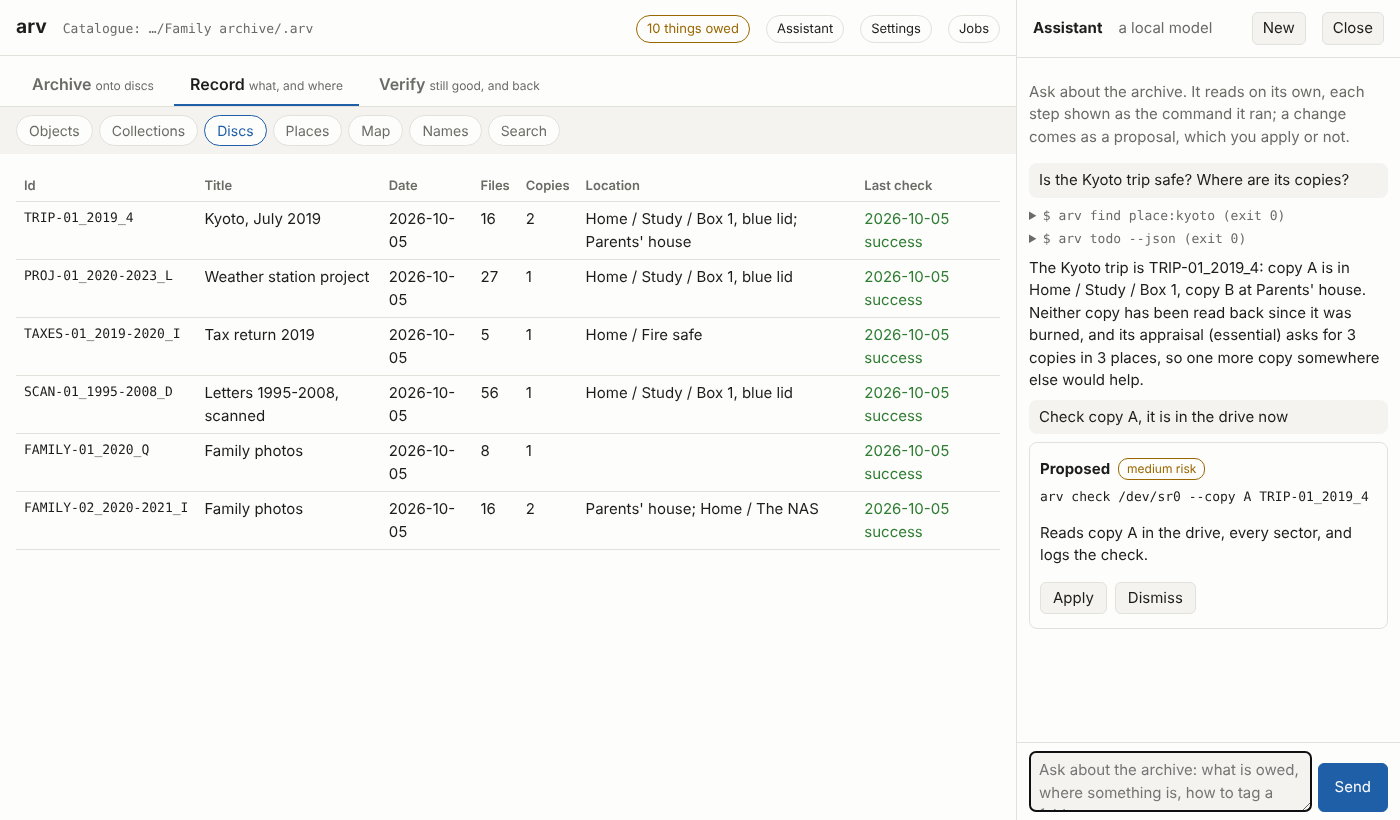
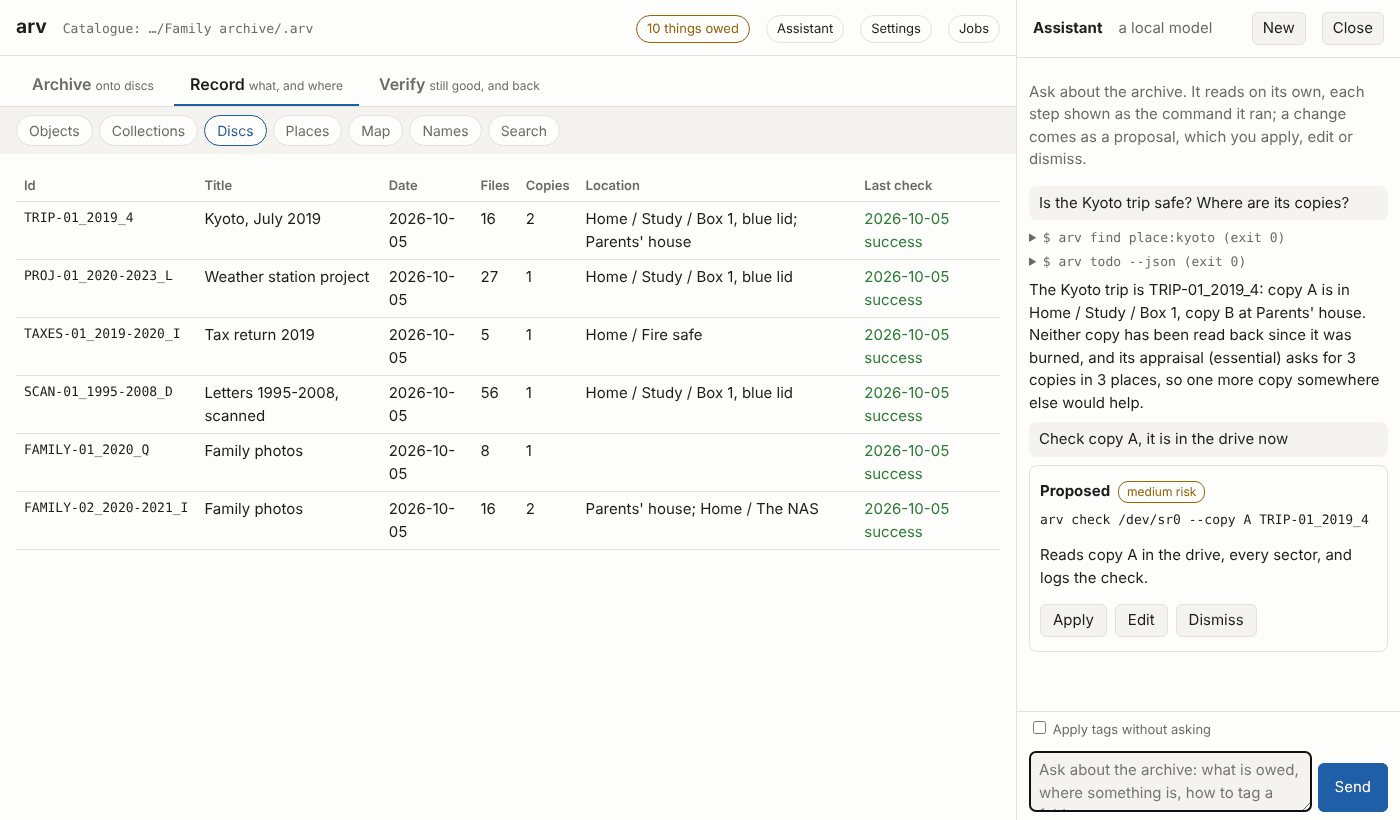
docs/gui.md: every view of arv gui, pictured
- docs/gui.md: each view (the first run, Archive, Record, Verify, Settings, Jobs and the
  Assistant) with a picture on the sample archive, what it does and the commands it runs; linked
  from the README, src/arv-gui/README.md and the website.
- dev-tools/screenshots.sh takes every view (docs/screenshots/gui/VIEW.png, named as in the
  address), not Record › Discs alone (gui.png, now gui/discs.png). A view that shows nothing until
  it is used is used first: a plan of the sample sources, a folder looked at, a search, a job.
- It works in ${TMPDIR:-/tmp}/arv-screenshots as the person's home folder, so the file browser
  shows no real home folder, and the paths pictured stay short and the same on every retake.
- The pictures are reduced to 256 colours when Pillow is there: 0.9 MB for all of them, with no
  difference to see.
- Mastering: an item's buttons wrap inside a narrow disc; they spilled out of it at the width the
  page is usually seen at.

Claude-Session: https://claude.ai/code/session_018yFLXdCxdTyVs2WFa1m1xT

Changed region(s): [[0.7371, 0.1829, 0.9829, 0.7622], [0.7371, 0.8841, 0.86, 0.9146], [0.9214, 0.1524, 0.9521, 0.1829]]

diff --git a/docs/index.html b/docs/index.html
@@ -175,6 +175,7 @@ is a Telegram group.</p>
   <li><a href="https://github.com/mofosyne/arv/blob/main/docs/workflow.md">Workflow</a>: from a folder to discs on a shelf, and back</li>
   <li><a href="https://github.com/mofosyne/arv/blob/main/docs/philosophy.md">Philosophy</a>: why it works this way</li>
   <li><a href="https://github.com/mofosyne/arv/blob/main/docs/concepts.md">Concepts</a>: collections, copies, and the words arv uses</li>
+  <li><a href="https://github.com/mofosyne/arv/blob/main/docs/gui.md">The GUI</a>: every view of <code>arv gui</code>, with a picture</li>
   <li><a href="https://github.com/mofosyne/arv#readme">README</a>: install, and every command</li>
   <li><strong>For archivists and the technically curious:</strong>
     <a href="https://github.com/mofosyne/arv/blob/main/docs/architecture.md">how a disc is built</a> (its layers, error correction and repair),

diff --git a/src/arv-gui/gui.html b/src/arv-gui/gui.html
@@ -112,7 +112,7 @@ pre.log { background:var(--panel); padding:10px 12px; border-radius:6px; max-hei
         border-top:1px solid var(--line); cursor:grab; }
 .item .path { overflow-wrap:anywhere; }
 .item .src { grid-column:1 / -1; font-size:11px; color:var(--muted); overflow-wrap:anywhere; font-family:ui-monospace, monospace; }
-.item .ctl { grid-column:1 / -1; justify-self:end; white-space:nowrap; }
+.item .ctl { grid-column:1 / -1; justify-self:end; display:flex; flex-wrap:wrap; justify-content:flex-end; gap:4px; }
 .item select { width:auto; padding:2px 4px; font-size:12px; }
 .item button, .disc h3 button { font:inherit; font-size:12px; padding:2px 6px; border:1px solid var(--line); border-radius:4px;
         background:var(--panel); color:var(--fg); cursor:pointer; }

diff --git a/docs/gui.md b/docs/gui.md
@@ -1,0 +1,176 @@
+# arv gui, view by view
+
+`arv gui` is arv in your web browser: a page served on 127.0.0.1 that runs the same commands as the
+terminal and shows what they printed. Here is every view, with a picture, so you can find your way
+round it before you start. How it works inside: [src/arv-gui/README.md](../src/arv-gui/README.md).
+
+The pictures are of the sample archive ([samples/](../samples/README.md)): six small discs, their
+copies and places, and the folders they were made from. Where a view shows nothing until it is used,
+it was used first: a plan, a folder looked at, a search, a job. `sh dev-tools/screenshots.sh` takes
+them all again after a change.
+
+The header is on every view: the catalogue in use, how many things are owed (it opens Verify ›
+Owed), the Assistant, Settings and Jobs.
+
+## First run: Make an archive
+
+![Make an archive: a folder (filled in with where arv gui was started) with Browse, an optional name, a box to use it from anywhere on this computer, and Make the archive](screenshots/gui/setup.png)
+
+With no archive in the folder it was started in, or above it, and no default, `arv gui` offers to
+make one (`arv init`): a folder, an optional name, and whether to use it from anywhere. The
+interface then opens on it.
+
+## Archive: onto discs
+
+### From a folder
+
+![Archive › From a folder: the Kyoto trip's folder chosen, its title, description and subjects filled from its files, with fields for the creator, rights, a note and tags below](screenshots/gui/make.png)
+
+One folder made into discs (`arv make`). Its title, description, subjects and tags can be filled
+from the files' names, dates and kinds, or from a few questions, with no model; or by a model, if
+one is set up. Below them: the disc it is for, the error correction, and whether to split it across
+discs.
+
+### Mastering: discs by hand
+
+![Archive › Mastering: the plan HOLIDAYS, with two discs, each with a fill bar and its folders (the Kyoto trip, 16 of 17 files on discs already; 2021 Beach and 2021 Christmas, every file on discs), and a file browser on the right](screenshots/gui/master.png)
+
+Discs composed by hand from files and folders anywhere (`arv plan`): drag them from the browser on
+the right onto a disc, or tick them and press Add. Each item can be moved, renamed, tagged and
+packed; each disc has a fill bar and a layout. "What is on discs already?" marks what earlier discs
+hold. Make the disc images when it is ready.
+
+### What changed
+
+![Archive › What changed: the Kyoto trip's folder, not a collection's: 16 of its 17 files are on discs, most like TRIP-01_2019_4, and one file, notes, day 4.txt, on no disc](screenshots/gui/status.png)
+
+A folder against what is archived (`arv status`): a collection's folder against its last edition,
+or any folder against every disc. Here, the Kyoto trip's folder, with a file added since its disc.
+
+## Record: what, and where
+
+### Objects
+
+![Record › Objects: the collection Family photos, two editions, its newest on FAMILY-02_2020-2021_I, with copy A a cold disc and copy B a warm image read back, kept at the parents' house and on the NAS](screenshots/gui/objects.png)
+
+Everything kept, and where every copy of it is: each data object's versions and each collection's
+newest edition, the discs holding them, and each copy, cold, warm or hot, and whether it was read
+back. Renamed and retagged here (`arv rename`, `arv retag`).
+
+### Collections
+
+![Record › Collections: Family photos, edition 2 safe with two copies and a Keep button, edition 1 retired, and a form to make a folder a collection](screenshots/gui/collections.png)
+
+Each collection and its editions (`arv collection`). An edition is safe once each of its discs has a
+copy read back; a newer safe edition replaces older ones, unless they are kept. Any folder can be
+made a collection here (`arv collection init`).
+
+### Discs
+
+![Record › Discs: the six sample discs, each with its title, date, files, copies, where it is kept and its last check](screenshots/gui/discs.png)
+
+Every disc (`arv list`): its title, its copies, where they are kept and when it was last checked.
+Click a disc to open it:
+
+![One disc opened, the whole page: TRIP-01_2019_4, Kyoto, July 2019: its details, who may see it, notes, its copies A and B, what each copy is known by, forms to record a burned copy, a copy on a drive or NAS, a copy's new place and a check, Improve the description, and its history](screenshots/gui/discs-detail.png)
+
+What it says it is; who may see it (`arv access`); notes (`arv note`); its copies by letter, and
+the forms that record one (`arv burned`, `arv stored`), name it by a barcode or serial
+(`arv identify`), move it (`arv locate`) or check it (`arv check --copy`); its description improved
+(`arv describe`); and its history, every event.
+
+### Places
+
+![Record › Places: the tree of places, Home with Study and Box 1, the fire safe and the NAS, and Parents' house, each cold, warm or as above, and a form to add a place](screenshots/gui/places.png)
+
+The places copies are kept in, as a tree, each cold, warm or hot (`arv location`). A copy's place
+says how safe it is: `arv todo` asks for a cold copy, and copies in two places.
+
+### Map
+
+![Record › Map: a map of Japan with Kyoto marked](screenshots/gui/map.png)
+
+Where things are from: the places their tags name (`place:kyoto`), on a map (`arv map`). Places of
+your own are added below it (`arv tags add`).
+
+### Names
+
+![Record › Names: no known names yet, and a form to add one: a tag such as person:anne-smith, a name, and what tells it apart](screenshots/gui/names.png)
+
+The people, families, organisations, software and works you have confirmed (`arv tags`): each a key
+that stays and a name that can change. Describing makes them as you answer. The samples have none.
+
+### Search
+
+![Record › Search for beach: two discs, Family photos editions 1 and 2, and four files in 2021 Beach on FAMILY-02_2020-2021_I, with where they are kept](screenshots/gui/search.png)
+
+Files and discs by a name, words in a path or a glob, and a copy by its scanned barcode (`arv find`).
+
+## Verify: still good, and back
+
+### Owed
+
+![Verify › Owed: copies burned and never read back, a stored copy not found where recorded, discs with fewer copies or places than their appraisal asks, and discs kept in one place, each a link to the disc](screenshots/gui/owed.png)
+
+What is owed (`arv todo`), under headings that say what to do; a disc's name opens it. The questions
+waiting for an answer are listed too, never counted.
+
+### Check
+
+![Verify › Check: a drive, an image file or a disc's folder, an optional copy letter, repair the image, and Check](screenshots/gui/tools.png)
+
+A copy read back (`arv check`): a drive, every sector against the image; an image file; or a disc's
+files, against their checksums. It runs as a job.
+
+### Inventory
+
+![Verify › Inventory: a place, a box for the barcodes read there, and Compare](screenshots/gui/inventory.png)
+
+What a jukebox, a tape library or a shelf holds, against the copies recorded there
+(`arv inventory`): what `mtx status` printed, or barcodes scanned one a line. Nothing is recorded.
+
+### Audit
+
+![Verify › Audit: the catalogue's events, none changed since written, and Nothing found wrong](screenshots/gui/audit.png)
+
+Every event against its id, copies recorded twice, and fields two catalogues changed apart; with
+discs, the home against the catalogue each carries (`arv audit`).
+
+### Restore
+
+![Verify › Restore: restore files from a mounted disc to a new folder, and rebuild the catalogue from a disc or merge another](screenshots/gui/restore.png)
+
+Files copied back from a disc (`arv restore`); the catalogue rebuilt from a disc, or another
+catalogue of the same archive merged in (`arv rebuild`).
+
+## Settings
+
+### Models
+
+![Settings › Models: model help on, the describing model not ready (no server running), and the model servers on this computer (Ollama, llama.cpp, LM Studio, vLLM, Jan), none running](screenshots/gui/models.png)
+
+Which model helps with describing, and which looks at pictures (`arv-assist llm-use`): a model
+server on this computer, or an external provider with your own key, used only when you choose it.
+None is needed: here, none is running.
+
+### Programs
+
+![Settings › Programs: arv's own helpers, here, and the programs for making discs, each here or missing, with what it adds](screenshots/gui/programs.png)
+
+The programs arv can use and which are here (`arv programs`), with the command that installs the
+missing ones. None is needed to make, read, check or repair a disc.
+
+## Jobs
+
+![Jobs: arv plan make HOLIDAYS -y --no-ecc, finished, with what it printed: the items hashed, thumbnails made, two images built and hashed](screenshots/gui/jobs.png)
+
+What takes a while (making images, checking a copy, restoring) runs as a job: its output followed
+here as it comes. Here, the plan above, made without error correction.
+
+## Assistant
+
+![Record › Discs with the Assistant open on the right: asked whether the Kyoto trip is safe, it ran arv find place:kyoto and arv todo --json, answered where both copies are and that neither has been read back, then proposed a check of copy A, which waits for Apply](screenshots/assistant.png)
+
+From the header, beside any view (`arv-assist chat`): it reads the record on its own; a change it
+proposes waits for you to apply it, as it came or edited. Its reads in this picture are real; the
+model's replies are scripted.

diff --git a/README.md b/README.md
@@ -65,7 +65,8 @@ Why it works the way it does (curated discs on top of everyday storage, plain fi
 shelf, finding and checking them over the years, and recovering from damage or loss.
 [docs/burning.md](docs/burning.md) is how to burn and check a disc (and the drill for a new drive or
 media); [docs/shelving.md](docs/shelving.md) covers arranging, labelling and storing the physical discs.
-How a disc is built, in one picture: [docs/architecture.md](docs/architecture.md).
+How a disc is built, in one picture: [docs/architecture.md](docs/architecture.md). Every view of
+`arv gui`, with a picture: [docs/gui.md](docs/gui.md).
 
 ## Try it
 
@@ -262,7 +263,9 @@ the discs, with notes, places and copies; search) and **Verify** (what is owed, 
 header; checking a copy (a drive, an image or a disc's files); restoring and rebuilding from a disc). Every action
 runs the same `arv` command as the terminal and shows its output.
 
-![arv gui, Record › Discs: the sample discs, with where each is kept and when it was last checked, under the Archive, Record and Verify tabs](docs/screenshots/gui.png)
+![arv gui, Record › Discs: the sample discs, with where each is kept and when it was last checked, under the Archive, Record and Verify tabs](docs/screenshots/gui/discs.png)
+
+Every view, with a picture: [docs/gui.md](docs/gui.md).
 
 On the disc, `index.html` browses the disc without JavaScript:
 

diff --git a/dev-tools/README.md b/dev-tools/README.md
@@ -15,5 +15,5 @@ and keep its documentation honest.
 | `places.py` | writes `src/arv/data/default_places.rec` (the gazetteer: Natural Earth's countries and populated places, public domain) `src/arv/data/world.txt` (the land as one SVG path, for maps) and `src/arv-assist/data/countries.txt` (the countries' outlines, for where a photo's GPS is): `python3 dev-tools/places.py`, then `make -C src/arv data` |
 | `common-words.sh` | writes `src/arv-assist/data/common-words.txt`, the commonest English words, from public-domain books (Project Gutenberg), which `arv describe --ask` leaves out of a text's words: `sh dev-tools/common-words.sh` |
 | `bigcat.py` | makes a large synthetic home (2000 discs by default, three copies each, checks, a move, one object a disc) to time arv on: `python3 dev-tools/bigcat.py HOME [DISCS] [FILES]` (issue #37) |
-| `screenshots.sh` | retakes `docs/screenshots/` (arv gui and a disc's index.html) from the samples, with headless Chromium |
+| `screenshots.sh` | retakes `docs/screenshots/` from the samples, with headless Chromium: every view of arv gui ([docs/gui.md](../docs/gui.md)), the Assistant, and a disc's index.html |
 | `architecture-svg.py`, `shelving-svg.py` | draw `docs/img/architecture.svg` and `shelving.svg`; edit and run them to change the pictures |

diff --git a/CHANGELOG.md b/CHANGELOG.md
@@ -21,6 +21,13 @@ only add fields.
 
 What 1.0 is planned to be, as of now. Format 0.5 is what every disc made today carries.
 
+**Every view of the GUI, pictured**
+- `docs/gui.md`: each view of `arv gui`, with a picture on the sample archive and the commands it
+  runs. `dev-tools/screenshots.sh` takes them all again; a view that shows nothing until it is used
+  is used first (a plan, a folder looked at, a search, a job). It works in a temporary home folder,
+  so nobody's own folders are in a picture.
+- Mastering: an item's buttons wrap inside a narrow disc instead of spilling out of it.
+
 **The National Archives of Australia's standards**
 - The default tag vocabulary declares `role:` (raw, master or access; one a file), to tell a scan's
   raw file, master and access copy apart: `arv find role:master` lists what must never be lost.

diff --git a/src/arv-gui/README.md b/src/arv-gui/README.md
@@ -3,7 +3,7 @@
 `arv gui`: the interface, in your web browser. Optional, in C99 and POSIX (a program of its own,
 so arv does not grow); everything it does can be done with arv in a terminal.
 
-Its three tabs follow the name.
+Its three tabs follow the name. Every view, with a picture: [docs/gui.md](../../docs/gui.md).
 
 - **Archive:** From a folder (`arv make`); Mastering, discs by hand (`arv plan`: add, move, drop, an
   item's new place and its tags, a disc's layout, make, again); What changed (`arv status`: a
